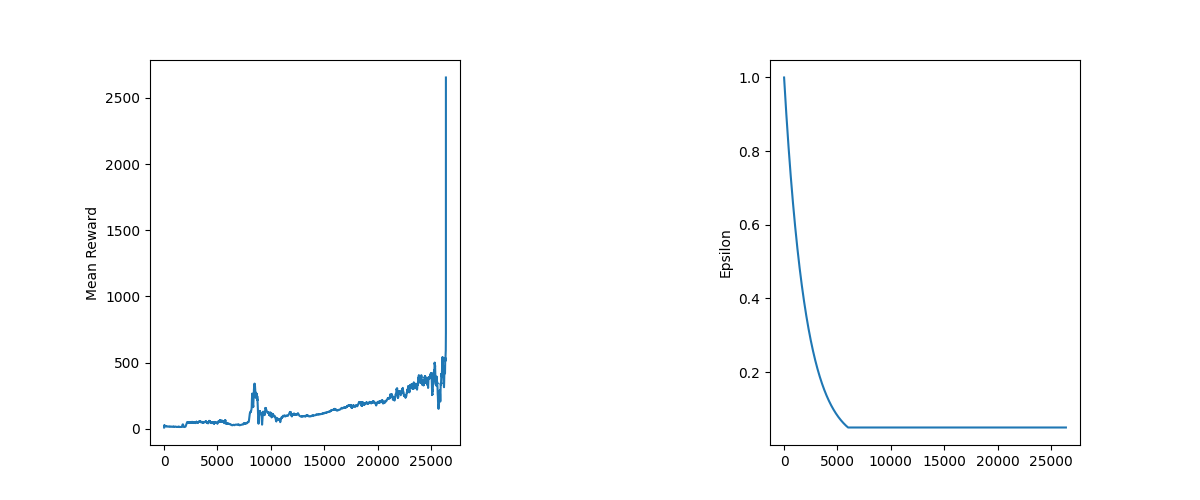
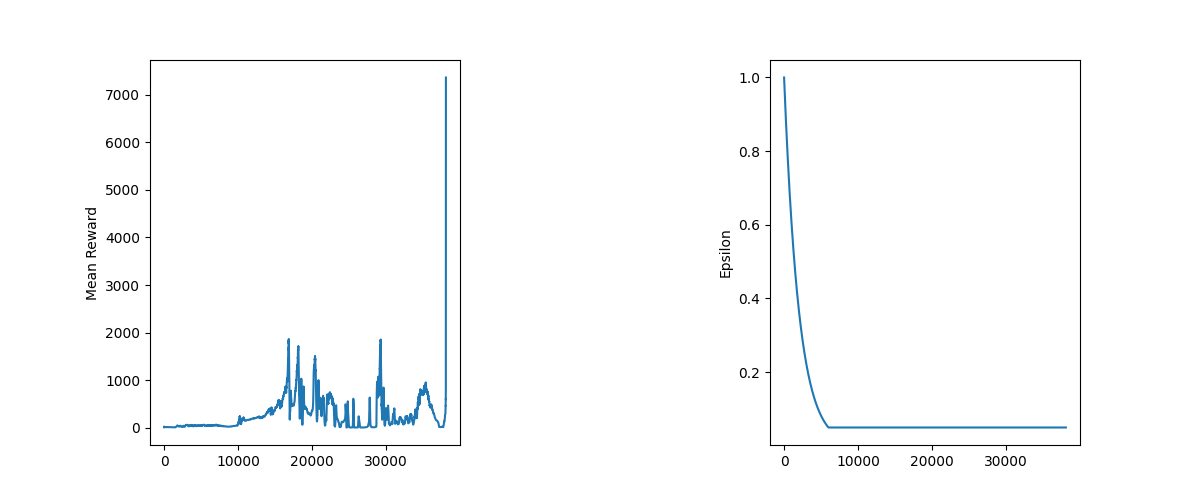
Trained agent with updated hyperparameters and saved model weights. Improved performance on CartPole environment.

diff --git a/agent.py b/agent.py
@@ -23,6 +23,7 @@ os.makedirs(RUNS_DIR, exist_ok=True)
 matplotlib.use('Agg')  # generate plots as images and save instead of displaying them.
 
 device = "cuda" if torch.cuda.is_available() else "cpu"
+#device = "cpu"  # Force CPU usage
 
 class Agent: #configuration of hyperparameters from yaml file, uses Epsilon-Greedy policy for action selection, which means epsilon values
     def __init__(self, hyperparameters):
@@ -146,16 +147,16 @@ class Agent: #configuration of hyperparameters from yaml file, uses Epsilon-Gree
                 if ep_reward >= self.stop_on_reward:
                     print(f"Reached target reward of {self.stop_on_reward}!")
                     break
-            
-            if len(replay_memory) > self.batch_size:
                 
-                #get a sample from replay memory
-                minibatch = replay_memory.sample(self.batch_size) 
-                self.optimize(minibatch, policy_dqn, target_dqn)
-                
-                if step_ctr > self.network_sync_rate:
-                    target_dqn.load_state_dict(policy_dqn.state_dict())
-                    step_ctr = 0
+                if len(replay_memory) > self.batch_size:
+                    
+                    #get a sample from replay memory
+                    minibatch = replay_memory.sample(self.batch_size) 
+                    self.optimize(minibatch, policy_dqn, target_dqn)
+                    
+                    if step_ctr > self.network_sync_rate:
+                        target_dqn.load_state_dict(policy_dqn.state_dict())
+                        step_ctr = 0
     def save_graph(self, reward_history, epsilon_history):
         fig = plt.figure(figsize=(12, 5))
         
